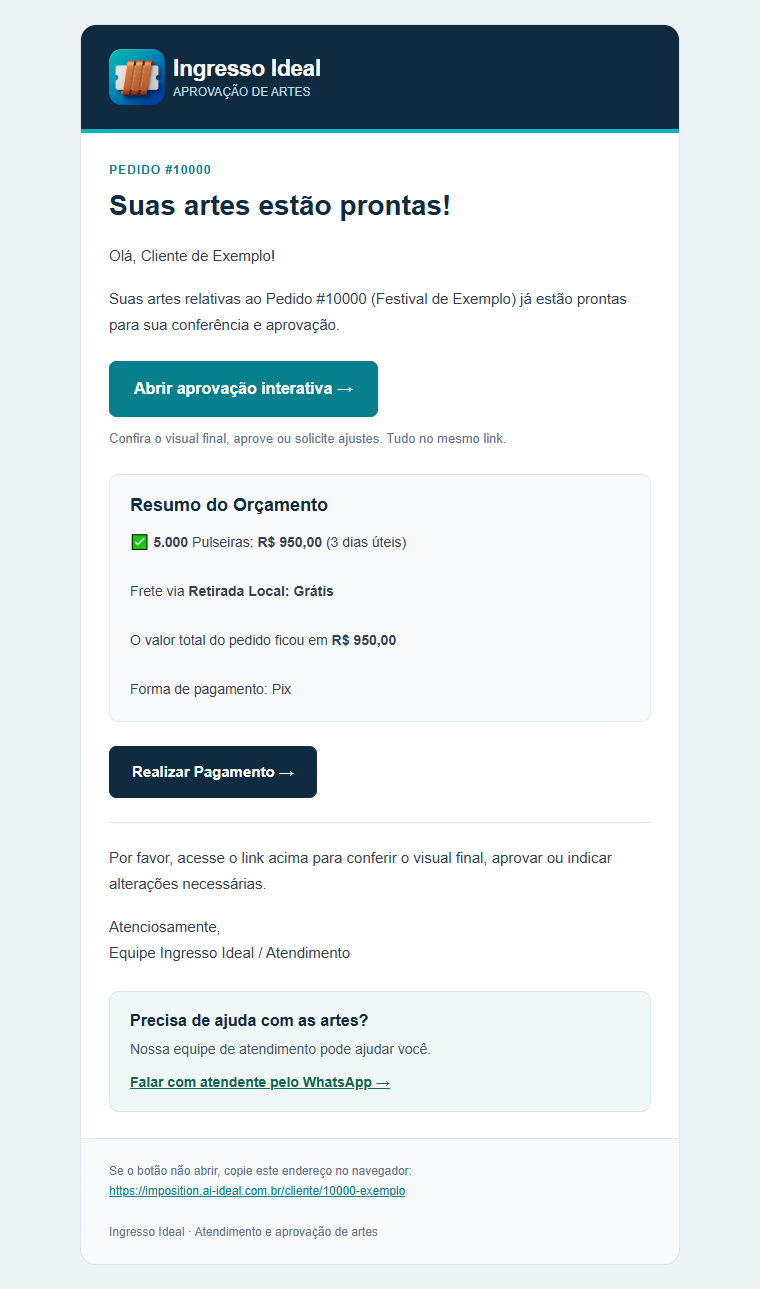
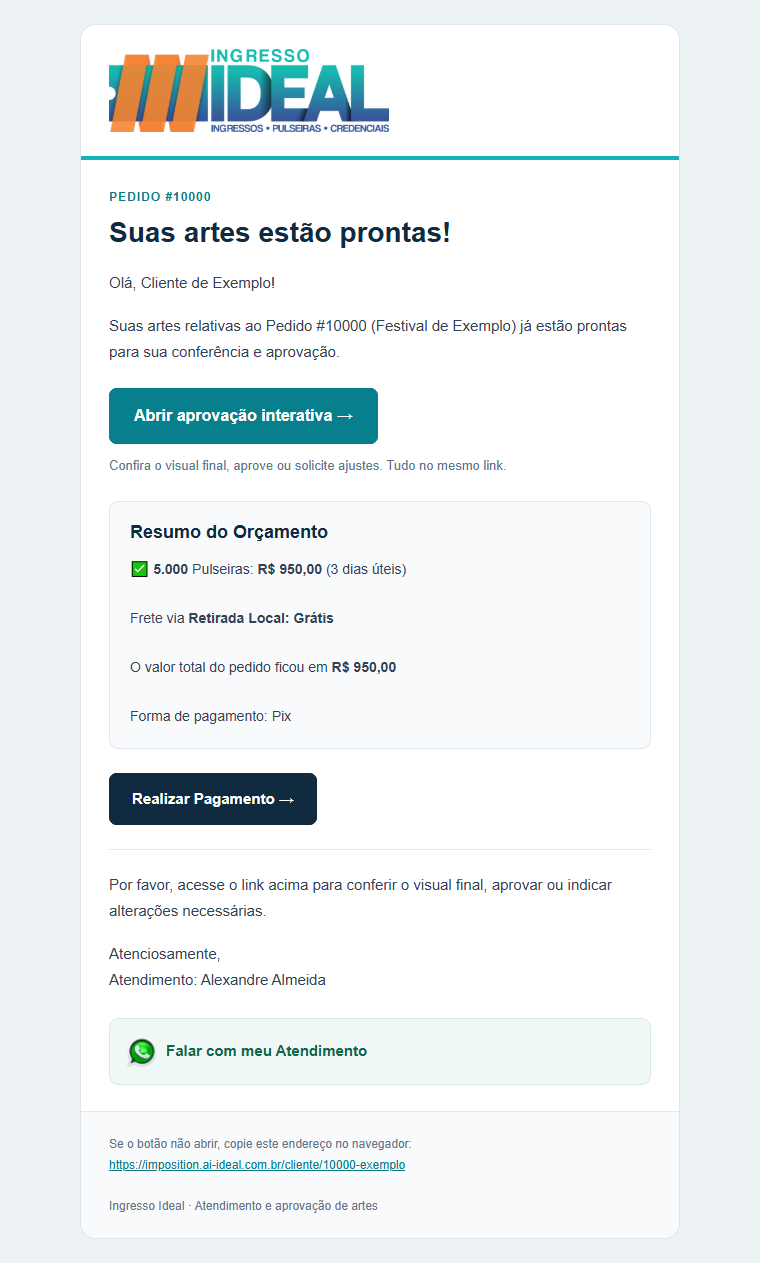
fix(email): usar marca oficial e atendimento do pedido

Changed region(s): [[0.0908, 0.0, 0.9079, 0.8646], [0.1513, 0.8955, 0.5447, 0.9572]]

diff --git a/supabase/functions/_compartilhado/email_artes_layout.ts b/supabase/functions/_compartilhado/email_artes_layout.ts
@@ -1,5 +1,7 @@
 /** HTML de e-mail gerado no servidor. Conteúdo editável sempre escapado. */
 const WHATSAPP = "555195343478"; // Mesmo atendimento de frontend/cliente-entrega.js.
+const LOGO_EMPRESA = "https://vwbtitjlpelrcnsytzqw.supabase.co/storage/v1/object/public/app-imagens/1785672791278_logo_ideal_2026.jpg";
+const LOGO_WHATSAPP = "https://vwbtitjlpelrcnsytzqw.supabase.co/storage/v1/object/public/app-imagens/1787694554509_Whatsapp.png";
 const escapar = (s: string) => s.replace(/[&<>"']/g, c => ({ "&": "&amp;", "<": "&lt;", ">": "&gt;", '"': "&quot;", "'": "&#39;" }[c]!));
 
 function linhaHtml(linha: string): string {
@@ -15,7 +17,13 @@ function linhaHtml(linha: string): string {
   }).join("");
 }
 
-export function layoutEmailArte(texto: string, portal: string, link?: string, numero?: string, orcamento?: string) {
+export function layoutEmailArte(texto: string, portal: string, link?: string, numero?: string, orcamento?: string, vendedor?: string) {
+  const atendente = (vendedor || "").replace(/\s+/g, " ").trim();
+  if (link) {
+    // Atualiza apenas a assinatura padrão, inclusive em mensagens de abas antigas.
+    texto = texto.replace(/\n*Atenciosamente,?\s*\n(?:Equipe (?:Ingresso Ideal|Ideal Imposition)(?:\s*\/\s*Atendimento)?|Atendimento(?::[^\r\n]*)?)\s*$/i, "").trimEnd();
+    texto += "\n\nAtenciosamente,\n" + (atendente ? `Atendimento: ${atendente}` : "Atendimento");
+  }
   // Também remove o bloco padrão de mensagens preparadas por abas antigas.
   const fonte = texto.split(/\r?\n/);
   const inicioResumo = fonte.findIndex(l => /^\s*RESUMO DOS MODELOS DO PEDIDO:\s*$/i.test(l));
@@ -23,7 +31,7 @@ export function layoutEmailArte(texto: string, portal: string, link?: string, nu
   if (inicioResumo >= 0 && inicioAprovacao > inicioResumo) fonte.splice(inicioResumo, inicioAprovacao - inicioResumo);
   texto = fonte.join("\n");
   const whatsapp = "https://api.whatsapp.com/send?phone=" + WHATSAPP + "&text=" + encodeURIComponent(
-    numero ? `Olá! Preciso de atendimento sobre a aprovação das artes do Pedido #${numero}.` : "Olá! Preciso de atendimento sobre a aprovação das artes.");
+    `Olá${atendente ? ", " + atendente : ""}! Preciso de atendimento sobre a aprovação das artes${numero ? " do Pedido #" + numero : ""}.`);
   const destino = link || portal;
   const pagamento = link ? link + "#pagamento" : "";
   const titulo = link ? "Suas artes estão prontas!" : "Seu e-mail de teste chegou.";
@@ -47,8 +55,8 @@ export function layoutEmailArte(texto: string, portal: string, link?: string, nu
 <table role="presentation" width="100%" cellpadding="0" cellspacing="0" style="background:#edf3f5;"><tr><td align="center" style="padding:24px 12px;">
 <!--[if mso]><table role="presentation" width="600"><tr><td><![endif]-->
 <table role="presentation" width="100%" cellpadding="0" cellspacing="0" style="max-width:600px;background:#fff;border:1px solid #dde7eb;border-radius:16px;overflow:hidden;">
-<tr><td style="background:#102b3f;padding:24px 28px;border-bottom:4px solid #11b3b8;">
-<table role="presentation" cellpadding="0" cellspacing="0"><tr><td width="64"><img src="${escapar(portal)}/logo.png" width="56" height="56" alt="Ingresso Ideal" style="display:block;border:0;border-radius:12px;"></td><td style="color:#fff;font-family:Arial,Helvetica,sans-serif;"><strong style="font-size:23px;letter-spacing:-0.5px;">Ingresso Ideal</strong><br><span style="font-size:12px;color:#b7d9e4;">APROVAÇÃO DE ARTES</span></td></tr></table>
+<tr><td style="background:#fff;padding:24px 28px;border-bottom:4px solid #11b3b8;">
+<img src="${LOGO_EMPRESA}" width="280" alt="Ingresso Ideal — Ingressos, Pulseiras e Credenciais" style="display:block;width:280px;max-width:100%;height:auto;border:0;">
 </td></tr>
 <tr><td style="padding:30px 28px 8px;">
 ${numero ? `<p style="margin:0 0 12px;font-size:12px;font-weight:bold;letter-spacing:1px;color:#087f8c;">PEDIDO #${escapar(numero)}</p>` : ""}
@@ -62,9 +70,9 @@ ${resumoHtml ? `<table role="presentation" width="100%" cellpadding="0" cellspac
 ${pagamento ? `<table role="presentation" cellpadding="0" cellspacing="0" style="margin-bottom:24px;"><tr><td align="center" bgcolor="#102b3f" style="border-radius:8px;mso-padding-alt:14px 22px;"><a href="${escapar(pagamento)}" style="display:inline-block;padding:14px 22px;border:1px solid #102b3f;border-radius:8px;font-size:15px;font-weight:bold;line-height:22px;color:#fff;text-decoration:none;">Realizar Pagamento &rarr;</a></td></tr></table>` : ""}
 ${detalhes ? `<div style="border-top:1px solid #e2e8f0;padding-top:22px;">${detalhes}</div>` : ""}
 </td></tr>
-<tr><td style="padding:0 28px 26px;"><table role="presentation" width="100%" cellpadding="0" cellspacing="0"><tr><td style="padding:20px;background:#f0f8f7;border:1px solid #d5eae5;border-radius:10px;"><strong style="font-size:16px;color:#102b3f;">Precisa de ajuda com as artes?</strong><p style="margin:8px 0 12px;font-size:14px;line-height:1.6;color:#475569;">Nossa equipe de atendimento pode ajudar você.</p><a href="${escapar(whatsapp)}" style="font-size:14px;font-weight:bold;color:#12664b;text-decoration:underline;">Falar com atendente pelo WhatsApp &rarr;</a></td></tr></table></td></tr>
+<tr><td style="padding:0 28px 26px;"><table role="presentation" width="100%" cellpadding="0" cellspacing="0"><tr><td style="background:#f0f8f7;border:1px solid #d5eae5;border-radius:10px;"><a href="${escapar(whatsapp)}" style="display:block;padding:16px;color:#12664b;font-size:15px;font-weight:bold;line-height:32px;text-decoration:none;"><img src="${LOGO_WHATSAPP}" width="32" height="32" alt="WhatsApp" style="vertical-align:middle;border:0;margin-right:8px;">Falar com meu Atendimento</a></td></tr></table></td></tr>
 <tr><td style="padding:22px 28px;background:#f8fafc;border-top:1px solid #e2e8f0;font-size:12px;line-height:1.7;color:#64748b;">Se o botão não abrir, copie este endereço no navegador:<br><a href="${escapar(destino)}" style="color:#087f8c;word-break:break-all;">${escapar(destino)}</a><br><br>Ingresso Ideal &middot; Atendimento e aprovação de artes</td></tr>
 </table><!--[if mso]></td></tr></table><![endif]-->
 </td></tr></table></body></html>`;
-  return { html, text: texto + (orcamento ? "\n\nRESUMO DO ORÇAMENTO:\n" + orcamento : "") + (pagamento ? "\n\nRealizar Pagamento:\n" + pagamento : "") + "\n\nFalar com atendente pelo WhatsApp:\n" + whatsapp };
+  return { html, text: texto + (orcamento ? "\n\nRESUMO DO ORÇAMENTO:\n" + orcamento : "") + (pagamento ? "\n\nRealizar Pagamento:\n" + pagamento : "") + "\n\nFalar com meu Atendimento:\n" + whatsapp };
 }

diff --git a/supabase/functions/_compartilhado/email_artes_layout_test.ts b/supabase/functions/_compartilhado/email_artes_layout_test.ts
@@ -8,19 +8,42 @@ Deno.test("layout: remove resumo legado de HTML e texto, preservando aprovacao e
   const texto = `Olá, Cliente!\n\nSuas artes estão prontas.\n\nRESUMO DOS MODELOS DO PEDIDO:\n\n[01] Pulseira\nQuantidade: 5000\nArte: https://storage.example/arte.pdf\n\nLINK DE APROVAÇÃO INTERATIVA:\n${link}`;
   const r = layoutEmailArte(texto, portal, link, "11");
   assert.match(r.html, /Abrir aprovação interativa/);
-  assert.ok(r.html.includes(`src="${portal}/logo.png"`));
+  assert.match(r.html, /src="https:\/\/vwbtitjlpelrcnsytzqw.supabase.co\/storage\/v1\/object\/public\/app-imagens\/1785672791278_logo_ideal_2026.jpg"/);
+  assert.match(r.html, /src="https:\/\/vwbtitjlpelrcnsytzqw.supabase.co\/storage\/v1\/object\/public\/app-imagens\/1787694554509_Whatsapp.png"/);
+  assert.match(r.html, /Falar com meu Atendimento/);
+  assert.doesNotMatch(r.html, /Precisa de ajuda com as artes|Nossa equipe de atendimento|Falar com atendente pelo WhatsApp/);
   assert.ok(r.html.includes(`href="${link}"`));
   assert.match(r.html, /phone=555195343478/);
   assert.match(r.text, /Suas artes estão prontas/);
   assert.ok(r.text.includes(link));
-  assert.doesNotMatch(r.html + r.text, /RESUMO DOS MODELOS|Pulseira|Quantidade|storage.example/);
+  assert.doesNotMatch(r.html + r.text, /RESUMO DOS MODELOS|\[01\] Pulseira|Quantidade|storage.example/);
 });
 Deno.test("layout: mensagem curta mantem botao antes da despedida e texto editado", () => {
   const texto = `Olá, Cliente!\n\nTexto editado pelo designer.\n\nLINK DE APROVAÇÃO INTERATIVA:\n${link}\n\nAtenciosamente,\nEquipe Ingresso Ideal`;
   const r = layoutEmailArte(texto, portal, link, "11");
-  assert.ok(r.text.startsWith(texto));
+  assert.ok(r.text.startsWith(texto.replace('Equipe Ingresso Ideal', 'Atendimento')));
   assert.ok(r.html.indexOf("Texto editado") < r.html.indexOf("Abrir aprovação interativa"));
   assert.ok(r.html.indexOf("Abrir aprovação interativa") < r.html.indexOf("Atenciosamente"));
+});
+Deno.test("layout: assinatura e WhatsApp usam o responsavel de cada pedido e escapam HTML", () => {
+  const original = `Mensagem editada.\n\nLINK DE APROVAÇÃO INTERATIVA:\n${link}\n\nAtenciosamente,\nAtendimento: Nome desatualizado`;
+  for (const vendedor of ['Alexandre Almeida', 'Emily Boeira', '  André   Toniazzo\n', '<img src=x> & Teste']) {
+    const nome = vendedor.replace(/\s+/g, ' ').trim();
+    const r = layoutEmailArte(original, portal, link, '11', undefined, vendedor);
+    assert.match(r.text, /Mensagem editada/);
+    assert.ok(r.text.includes('Atendimento: ' + nome));
+    assert.doesNotMatch(r.html + r.text, /Nome desatualizado/);
+    assert.equal((r.text.match(/Atenciosamente/g) || []).length, 1);
+    const contato = new URL(r.text.split('\n').at(-1)!);
+    assert.equal(contato.searchParams.get('phone'), '555195343478');
+    assert.equal(contato.searchParams.get('text'), `Olá, ${nome}! Preciso de atendimento sobre a aprovação das artes do Pedido #11.`);
+    assert.doesNotMatch(r.html, /<img src=x>/);
+  }
+});
+Deno.test("layout: sem responsavel cadastrado usa atendimento generico", () => {
+  const r = layoutEmailArte(`Confira ${link}\n\nAtenciosamente,\nEquipe Ingresso Ideal / Atendimento`, portal, link, '11');
+  assert.match(r.text, /Atenciosamente,\nAtendimento\n/);
+  assert.doesNotMatch(r.text, /^Atendimento:|undefined|null|Equipe Ingresso Ideal/m);
 });
 Deno.test("layout: HTML editado e atributos de links sao escapados", () => {
   const r = layoutEmailArte('<script>alert(1)</script>\n<img src=x onerror="alert(2)">\nhttps://storage.example/a?x=1&y=2\njavascript:alert(3)', portal, link, "11");

diff --git a/supabase/functions/_compartilhado/email_artes_test.ts b/supabase/functions/_compartilhado/email_artes_test.ts
@@ -35,7 +35,7 @@ Deno.test("email: todos os perfis com leitura enviam sem permissão administrati
     assert.ok(c.enviadas[0].html?.includes(`href="${url}"`));
     assert.match(c.enviadas[0].text, /phone=555195343478/);
     assert.equal(c.consultas[0], "pedidos_links_cliente?os_id=eq.vibe_11&ativo=eq.true&select=os_id,numero_pedido,token&limit=2");
-    assert.equal(c.consultas[1], "propostas?id_int=eq.11&select=id_int,texto_whatsapp&limit=2");
+    assert.equal(c.consultas[1], "propostas?id_int=eq.11&select=id_int,texto_whatsapp,vendedor&limit=2");
     assert.match(c.enviadas[0].html!, /Resumo do Orçamento[\s\S]*R\$ 148,05/);
     assert.match(c.enviadas[0].text, /Pagamento: Pix/);
   }
@@ -65,7 +65,7 @@ Deno.test("email: configuração ausente, porta bloqueada ou TLS inválido não 
   }
 });
 Deno.test("email: não aceita sobrescrever SMTP, remetente, HTML, autor ou destinatário de teste", async () => {
-  for (const campo of ["smtp_config", "from", "body_html", "autor", "empresa_id", "orcamento"]) {
+  for (const campo of ["smtp_config", "from", "body_html", "autor", "empresa_id", "orcamento", "vendedor", "atendente"]) {
     const c = contexto();
     await recusa(422, () => operarEmailArtes("enviar", { ...entrada, [campo]: "forjado" }, quem, c.deps));
     assert.equal(c.consultas.length, 0); assert.equal(c.enviadas.length, 0);
@@ -74,6 +74,16 @@ Deno.test("email: não aceita sobrescrever SMTP, remetente, HTML, autor ou desti
   await recusa(422, () => operarEmailArtes("testar", { to: "outro@example.com" }, quem, c.deps));
   await operarEmailArtes("testar", {}, quem, c.deps);
   assert.equal(c.enviadas[0].to, quem.email); assert.equal(c.consultas.length, 0);
+});
+Deno.test("email: assinatura desatualizada cede ao atendimento cadastrado na proposta", async () => {
+  for (const vendedor of ['Alexandre Almeida', 'Emily Boeira']) {
+    const c = contexto([link], [{id_int:11,texto_whatsapp:'Total: R$ 148,05',vendedor}]);
+    await operarEmailArtes('enviar', {...entrada, body_text: entrada.body_text + '\n\nAtenciosamente,\nAtendimento: Nome antigo'}, quem, c.deps);
+    assert.ok(c.enviadas[0].text.includes('Atendimento: ' + vendedor));
+    assert.ok(c.enviadas[0].html?.includes('Atendimento: ' + vendedor));
+    assert.doesNotMatch(c.enviadas[0].text, /Nome antigo/);
+    assert.ok(c.enviadas[0].text.includes(encodeURIComponent('Olá, ' + vendedor + '!')));
+  }
 });
 Deno.test("email: orcamento ausente nao inventa valores; divergencia e falha impedem envio", async () => {
   for (const proposta of [[], [{id_int:11,texto_whatsapp:null}], [{id_int:11,texto_whatsapp:""}]]) {

diff --git a/tests/email_campos_browser_harness.js b/tests/email_campos_browser_harness.js
@@ -47,7 +47,11 @@ function extrair(nome) {
         const transporte = source.slice(source.indexOf('let emailOperacaoEmAndamento'), source.indexOf('window.abrirModalConfigEmail = abrirModalConfigEmail;', source.indexOf('let emailOperacaoEmAndamento')));
         await page.addScriptTag({content: `
             const API_PAINEL = 'https://synthetic.example';
-            const supabaseClient = {auth:{getSession:async()=>({data:{session:{access_token:'sintetico'}}})}};
+            window.vendedorProposta = 'Alexandre Almeida';
+            const supabaseClient = {
+                auth:{getSession:async()=>({data:{session:{access_token:'sintetico'}}})},
+                from:()=>({select:()=>({eq:()=>({limit:async()=>({data:[{vendedor:window.vendedorProposta}]})})})})
+            };
             function abrirModalConfigEmail() {}
             function toast() {}
             const state = {ordens:[{id:'vibe_11',numero:11,cliente:'Cliente de Exemplo'}],todasArtes:[],osItens:{}};
@@ -60,8 +64,19 @@ function extrair(nome) {
             document.getElementById('modal-email-to').value = 'segundo@example.com';
         });
         const corpo = await page.$eval('#modal-email-body', e => e.value);
+        assert.match(corpo, /Atendimento: Alexandre Almeida/);
         assert.doesNotMatch(corpo, /RESUMO DOS MODELOS|Quantidade:|Imagem da Arte|Numeração:/);
         assert.match(corpo, /https:\/\/example.com\/cliente\/11-abc123/);
+        for (const vendedor of ['Emily Boeira', null]) {
+            await page.evaluate(async nome => {
+                window.vendedorProposta = nome;
+                await abrirModalEnviarEmailCliente('vibe_11',11,'https://example.com/cliente/11-abc123');
+                document.getElementById('modal-email-to').value = 'segundo@example.com';
+            }, vendedor);
+            const mensagem = await page.$eval('#modal-email-body', e => e.value);
+            assert.ok(mensagem.endsWith(vendedor ? 'Atendimento: ' + vendedor : 'Atendimento'));
+            assert.doesNotMatch(mensagem, /Alexandre Almeida/);
+        }
         const preview = process.env.EMAIL_MODAL_PREVIEW_DIR;
         if (preview) fs.mkdirSync(preview, {recursive:true});
         for (const [nome,width,height] of [['desktop',1280,1000],['mobile',390,900]]) {

diff --git a/supabase/functions/_compartilhado/email_artes.ts b/supabase/functions/_compartilhado/email_artes.ts
@@ -113,7 +113,7 @@ export async function operarEmailArtes(
     let propostas;
     try {
       propostas = await (deps.consultar || banco)("GET",
-        `propostas?id_int=eq.${linhas[0].numero_pedido}&select=id_int,texto_whatsapp&limit=2`);
+        `propostas?id_int=eq.${linhas[0].numero_pedido}&select=id_int,texto_whatsapp,vendedor&limit=2`);
     } catch { throw new Recusa(503, "Não foi possível consultar o resumo do orçamento. Tente mais tarde."); }
     if (!Array.isArray(propostas) || propostas.length > 1 ||
         (propostas.length === 1 && String(propostas[0].id_int) !== String(linhas[0].numero_pedido))) {
@@ -124,9 +124,11 @@ export async function operarEmailArtes(
       throw new Recusa(503, "O resumo do orçamento precisa ser conferido antes do envio.");
     }
     const orcamento = resumo?.trim() || "Resumo não disponível neste e-mail. Consulte a aba Orçamento no link de aprovação ou fale com o atendimento.";
+    // Responsável da proposta, nunca o nome informado pelo navegador.
+    const vendedor = typeof propostas[0]?.vendedor === "string" ? propostas[0].vendedor : "";
     // Links montados na estação também saem com o domínio público configurado.
     mensagem = { to, subject, text: body.replaceAll(corpo.link_url, estado.portal + caminho) };
-    Object.assign(mensagem, layoutEmailArte(mensagem.text, estado.portal, estado.portal + caminho, String(linhas[0].numero_pedido), orcamento));
+    Object.assign(mensagem, layoutEmailArte(mensagem.text, estado.portal, estado.portal + caminho, String(linhas[0].numero_pedido), orcamento, vendedor));
   }
   const referencia = crypto.randomUUID();
   try {

diff --git a/frontend/script.js b/frontend/script.js
@@ -40693,6 +40693,7 @@ async function abrirModalEnviarEmailCliente(osId, numero, linkUrl) {
         let clienteNome = os ? (os.cliente || '') : '';
         let clienteEmail = '';
         let nomeEvento = '';
+        let atendente = typeof os?.vendedor === 'string' ? os.vendedor : '';
 
         if (state.todasArtes) {
             const arteObj = state.todasArtes.find(a => String(a.id_int) === String(numInt));
@@ -40709,6 +40710,7 @@ async function abrirModalEnviarEmailCliente(osId, numero, linkUrl) {
 
                 if (propData && propData.length > 0) {
                     const prop = propData[0];
+                    atendente = typeof prop.vendedor === 'string' ? prop.vendedor : '';
                     if (!clienteNome) clienteNome = prop.cliente || prop.cliente_nome || prop.dados_cliente || '';
                     const idCli = prop.id_faturado || prop.id_cliente;
                     if (idCli) {
@@ -40748,7 +40750,8 @@ async function abrirModalEnviarEmailCliente(osId, numero, linkUrl) {
         bodyLines.push(`Por favor, acesse o link acima para conferir o visual final, aprovar ou indicar alterações necessárias.`);
         bodyLines.push(``);
         bodyLines.push(`Atenciosamente,`);
-        bodyLines.push(`Equipe Ingresso Ideal / Atendimento`);
+        atendente = atendente.replace(/\s+/g, ' ').trim();
+        bodyLines.push(atendente ? `Atendimento: ${atendente}` : 'Atendimento');
 
         document.getElementById('modal-email-body').value = bodyLines.join('\n');
 

diff --git a/supabase/functions/painel/email_test.ts b/supabase/functions/painel/email_test.ts
@@ -23,7 +23,7 @@ Deno.test("painel/email: sessão, grade, CORS Cloudflare, métodos e envio sem a
       let dados;
       if (url.includes("imposition_user_permissions?")) dados = permissoes ? [permissoes] : [];
       else if (url.includes("pedidos_links_cliente?")) dados = [{ os_id: "vibe_11", numero_pedido: "11", token: "abc123" }];
-      else if (url.includes("propostas?id_int=eq.11&select=id_int,texto_whatsapp&limit=2")) dados = [{id_int:11,texto_whatsapp:"Total: R$ 148,05"}];
+      else if (url.includes("propostas?id_int=eq.11&select=id_int,texto_whatsapp,vendedor&limit=2")) dados = [{id_int:11,texto_whatsapp:"Total: R$ 148,05"}];
       else throw new Error("consulta fora do contrato");
       return Promise.resolve(Response.json(dados));
     }) as typeof fetch;

diff --git a/tests/email_layout_preview.ts b/tests/email_layout_preview.ts
@@ -13,7 +13,7 @@ ${link}
 Por favor, acesse o link acima para conferir o visual final, aprovar ou indicar alterações necessárias.
 
 Atenciosamente,
-Equipe Ingresso Ideal / Atendimento`;
+Atendimento: Alexandre Almeida`;
 await Deno.mkdir("design", {recursive:true});
 const orcamento = "✅ *5.000* Pulseiras: *R$ 950,00* (3 dias úteis)\n\nFrete via *Retirada Local: Grátis*\n\nO valor total do pedido ficou em *R$ 950,00*\n\nForma de pagamento: Pix";
-await Deno.writeTextFile("design/email-aprovacao-preview.html", layoutEmailArte(corpo, portal, link, "10000", orcamento).html);
+await Deno.writeTextFile("design/email-aprovacao-preview.html", layoutEmailArte(corpo, portal, link, "10000", orcamento, "Alexandre Almeida").html);

diff --git a/frontend/index.html b/frontend/index.html
@@ -4314,7 +4314,7 @@
     <script src="foto-lib.js?v=833"></script>
     <script src="gerenciador-fotos.js?v=833"></script>
     <script src="editor-foto.js?v=833"></script>
-    <script src="script.js?v=841"></script>
+    <script src="script.js?v=842"></script>
     <script src="ideal-control.js?v=833"></script>
     <script src="criador-arte.js?v=833"></script>
     <script src="/pedido.js?v=833"></script>

diff --git a/frontend/producao.html b/frontend/producao.html
@@ -2125,7 +2125,7 @@
     <script src="/foto-lib.js?v=833"></script>
     <script src="/gerenciador-fotos.js?v=833"></script>
     <script src="/editor-foto.js?v=833"></script>
-    <script src="/script.js?v=841"></script>
+    <script src="/script.js?v=842"></script>
     <script src="/criador-arte.js?v=833"></script>
     <script src="/pedido.js?v=833"></script>
 

diff --git a/docs/registro-2026-09-09-email-marca-atendimento.md b/docs/registro-2026-09-09-email-marca-atendimento.md
@@ -1,0 +1,44 @@
+# E-mail: marca oficial e atendimento do pedido — 09/09/2026
+
+## Resultado
+
+- Cabeçalho com a logo oficial `1785672791278_logo_ideal_2026.jpg`, no bucket
+  público `app-imagens`, sobre fundo branco e com proporção preservada.
+- Assinatura `Atenciosamente,` seguida de `Atendimento: nome do responsável`.
+  O nome vem de `propostas.vendedor`, mesma fonte do atendimento no portal.
+  Alexandre Almeida é um exemplo; nenhum responsável foi fixado no código.
+- Modal usa o responsável da proposta consultada. O servidor confirma o nome na
+  consulta existente do orçamento (`id_int` do link validado, limite 2), com
+  projeção `id_int,texto_whatsapp,vendedor`. Atualiza a assinatura padrão no HTML
+  e no texto, inclusive se o modal ainda contiver o responsável anterior.
+- Sem nome cadastrado, a assinatura usa somente `Atendimento`.
+- O bloco de ajuda foi substituído por `Falar com meu Atendimento`, acompanhado
+  da imagem oficial `1787694554509_Whatsapp.png` fornecida pelo usuário.
+  Imagem e texto integram o mesmo link clicável.
+- WhatsApp mantém o número central usado por `frontend/cliente-entrega.js`.
+  A mensagem preparada identifica o responsável e o pedido. Não há cadastro de
+  números individuais nesta fonte; o link não garante roteamento automático.
+- Preservados resumo do orçamento, botão de aprovação e Realizar Pagamento
+  (`#pagamento`), além do popup de sucesso após a confirmação do envio.
+
+## Validação e entrega
+
+- 33 testes Deno passaram: API, assinatura por pedido, atualização de nome,
+  ausência de responsável, escape de HTML, URLs, SMTP e MIME.
+- 2 testes pytest passaram, incluindo Chrome com modal real e nomes alternados.
+- `node --check frontend/script.js`, tipos do painel e `git diff --check` aprovados.
+- Prévias desktop e celular em `design/email-aprovacao-desktop.png` e
+  `design/email-aprovacao-mobile.png`, sem transbordamento. Imagens públicas
+  responderam HTTP 200; capturas usam cópias temporárias dessas mesmas imagens.
+- Antes da publicação, os 13 arquivos TypeScript da função `painel` online foram
+  comparados com a base Git: nenhuma divergência. Sem migração ou escrita em banco.
+- Nenhum e-mail real enviado nestas verificações. O recebimento deste novo layout
+  deve ser conferido em um novo envio; mensagens já recebidas não são alteradas.
+
+Entrega preparada em `fix/email-marca-atendimento`, worktree
+`imposicao-email-atendimento`, base `cdc6bed6`. Frontend v842 e Edge Function
+`painel` no projeto `vwbtitjlpelrcnsytzqw`, preservando autenticação JWT.
+O checkout original e alterações de outras tarefas foram preservados.
+
+Recuperação: reverter o commit desta alteração e republicar frontend e função
+`painel`. Não há dados ou secrets a restaurar.
